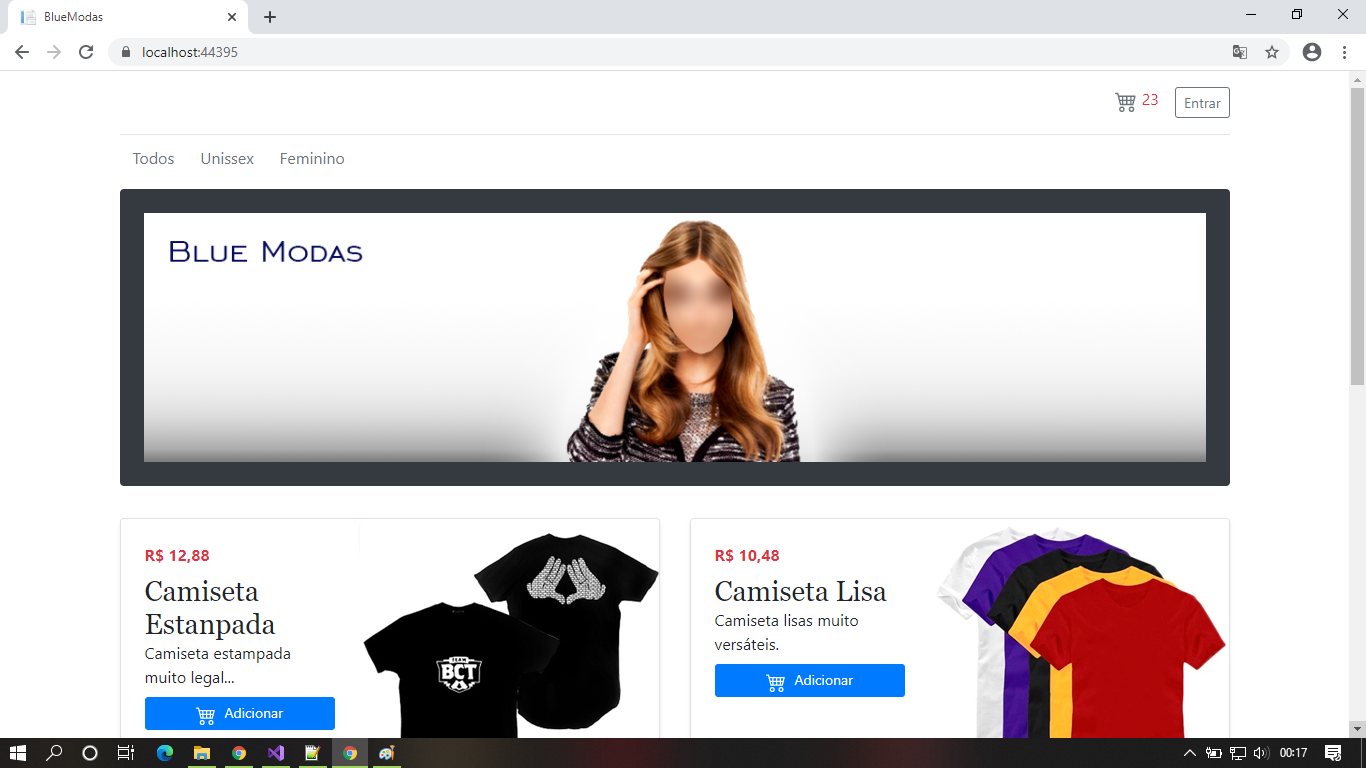
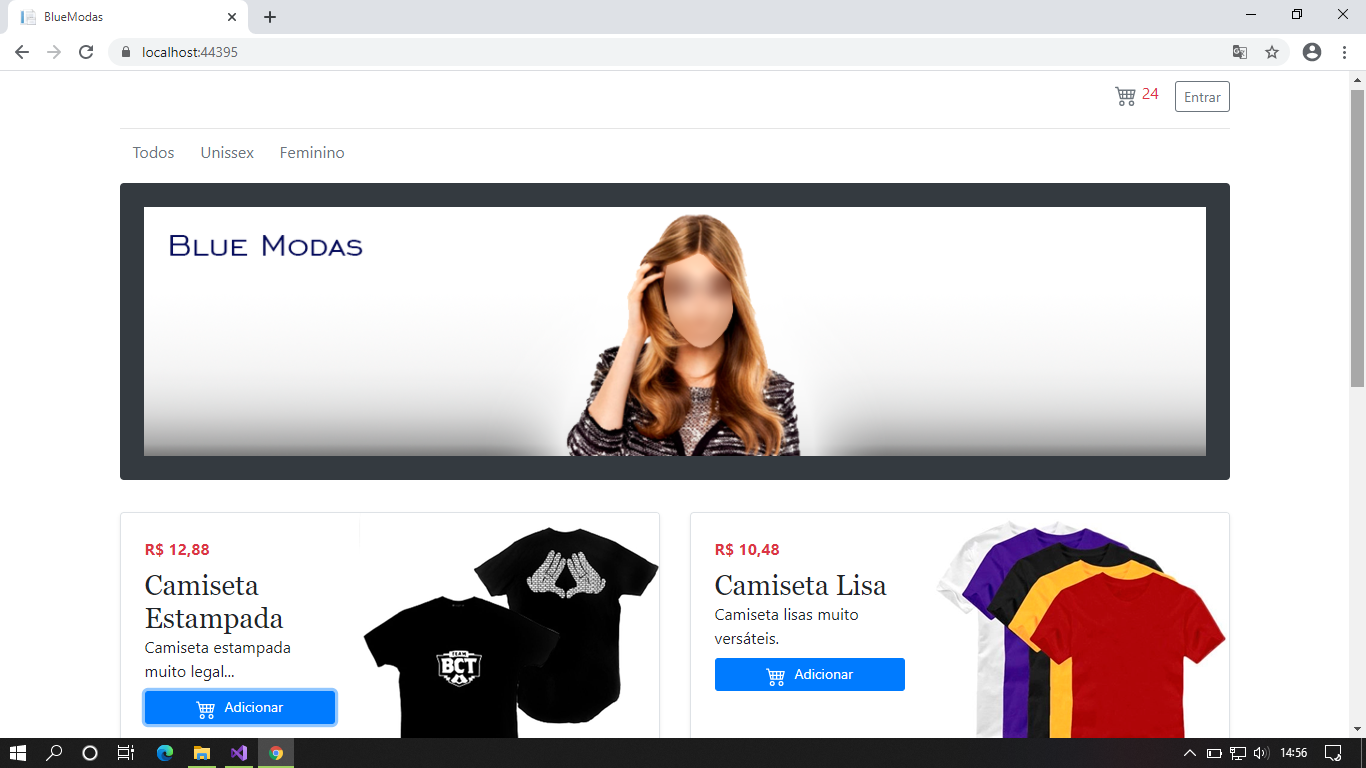
Correção ortográfica

diff --git a/BlueModas/Dao/Db.cs b/BlueModas/Dao/Db.cs
@@ -34,7 +34,7 @@ namespace BlueModas.Dao
                         Id = 1,
                         Descricao = "Unissex",
                     },
-                    Descricao = "Camiseta Estanpada",
+                    Descricao = "Camiseta Estampada",
                     Observacao = "Camiseta estampada muito legal...",
[1 lines of base64/hex data omitted]
                     Valor = 12.88M,
